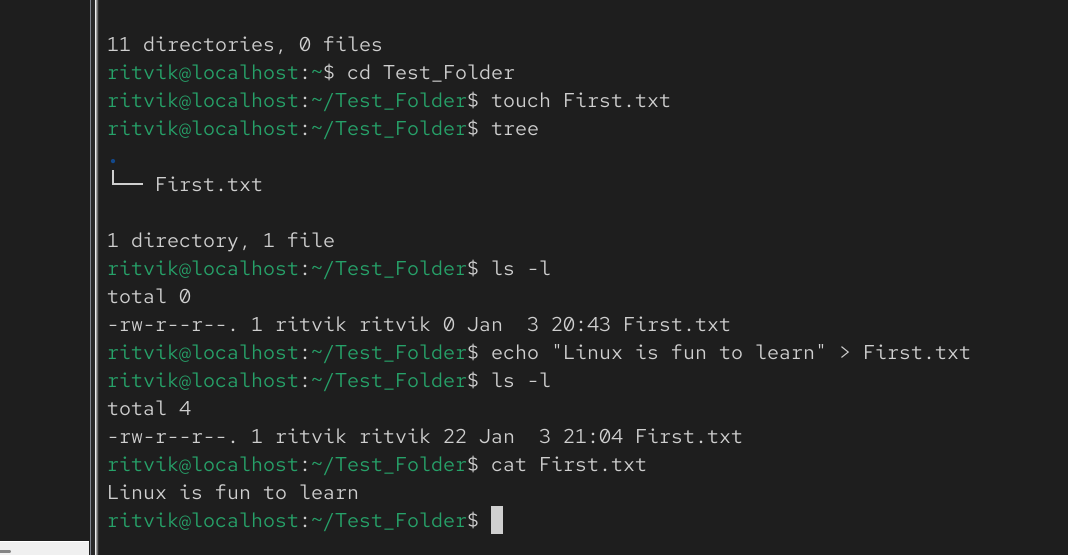
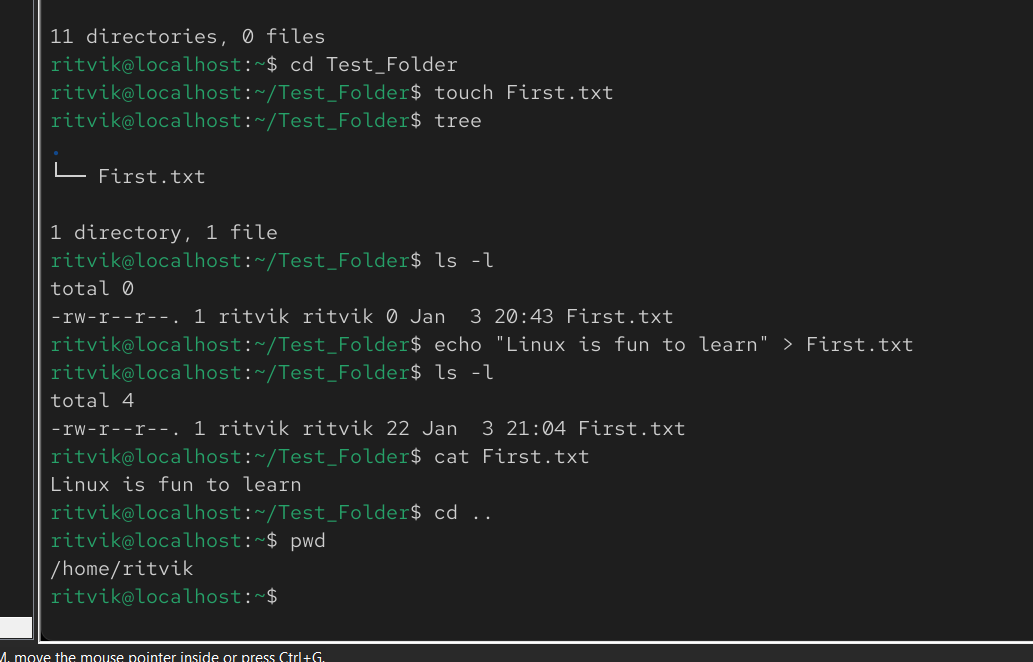
image changed

diff --git a/01_Basics/1Basic.md b/01_Basics/1Basic.md
@@ -39,12 +39,11 @@ $: This means you are a regular resident. You can move the furniture in your own
 8. To verify that you made the text file- "ls -l"- It gives the file details along with date and time
 9. To write something in the file (Without any editor) - echo "Learning Linux is fun" > First.txt
 10. Check the contents without opening an editor- "cat first_note.txt"
+11. To go one step back in file hirarchy- "cd .."
 
 ### Output
 
 ![Ouput](../Images/BasicOtuput3.png)
-
-
 
 
 
